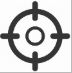
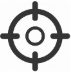
Cleaned the locator image and automatically trigger after postcode change

diff --git a/app/atmlocator.py b/app/atmlocator.py
@@ -46,7 +46,7 @@ def atmlocator(postcode, latitude, longitude):
 	<form action="atmlocator">
 	<img src="static/currloc.png" width="30" height="30" onclick="getLocation();"/>"""
 	welcome=welcome+"""
-	Postcode:<input type="text" id="postcode" maxlength="8" size="8" name="postcode" value=\""""+str(postcode)+"""\">
+	Postcode:<input type="text" id="postcode" maxlength="8" size="8" name="postcode" onchange="atmlocator()" value=\""""+str(postcode)+"""\">
     <input type="hidden" id="latitude" name="latitude" size="8" value="">	
 	<input type="hidden" id="longitude" name="longitude" size="8" value="">	
 	<input type="submit" id="Submit" value="Submit">
@@ -94,6 +94,9 @@ function showPosition(position) {
 	window.location.href = "https://www.deytalytics.com/atmlocator?latitude="+latitude.value+"&longitude="+longitude.value;
 	document.getElementById('Submit').click();
 }
+
+function atmlocator {
+	window.location.href="https://www.deytalytics.com/atmlocator?postcode="+postcode.value;
 </script>
     <script async defer src="https://maps.googleapis.com/maps/api/js?key=AIzaSyBSEr1W1SU0jzVPo0FYJRdIcH9lApBPxQg&callback=initMap">
     </script>
